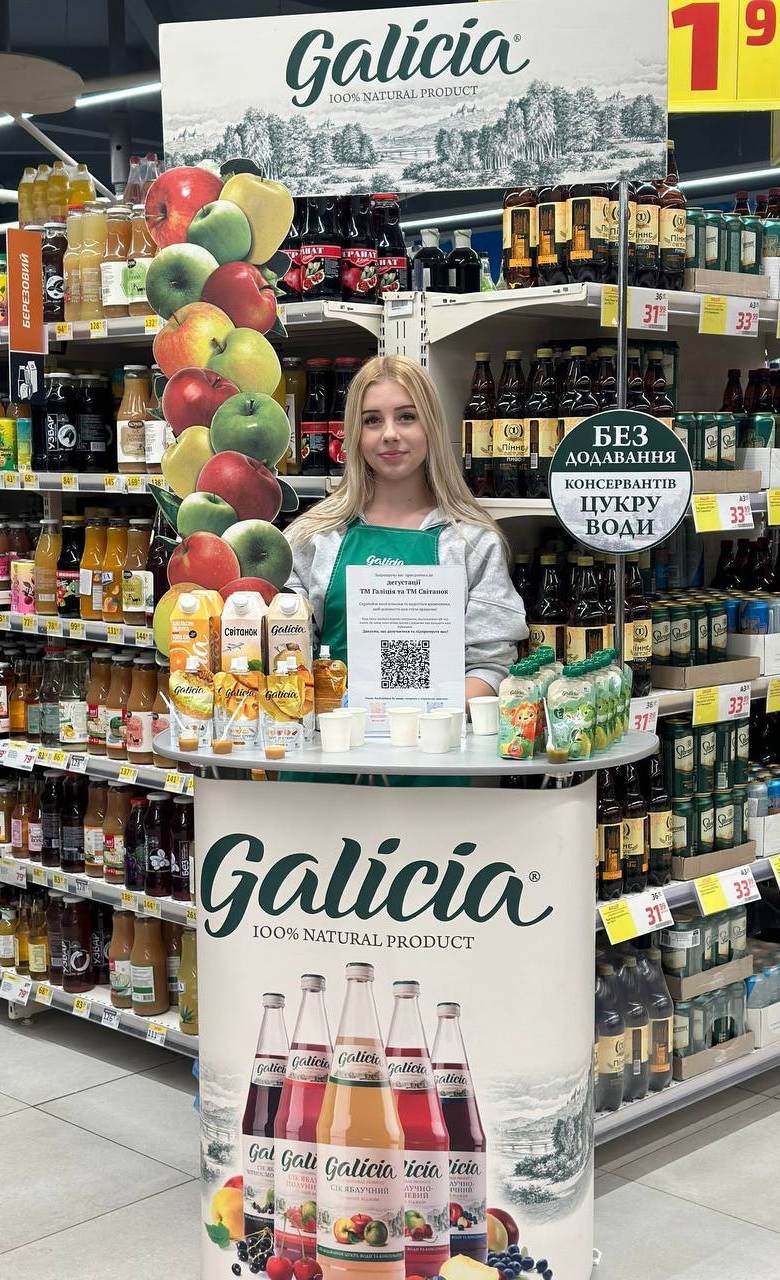
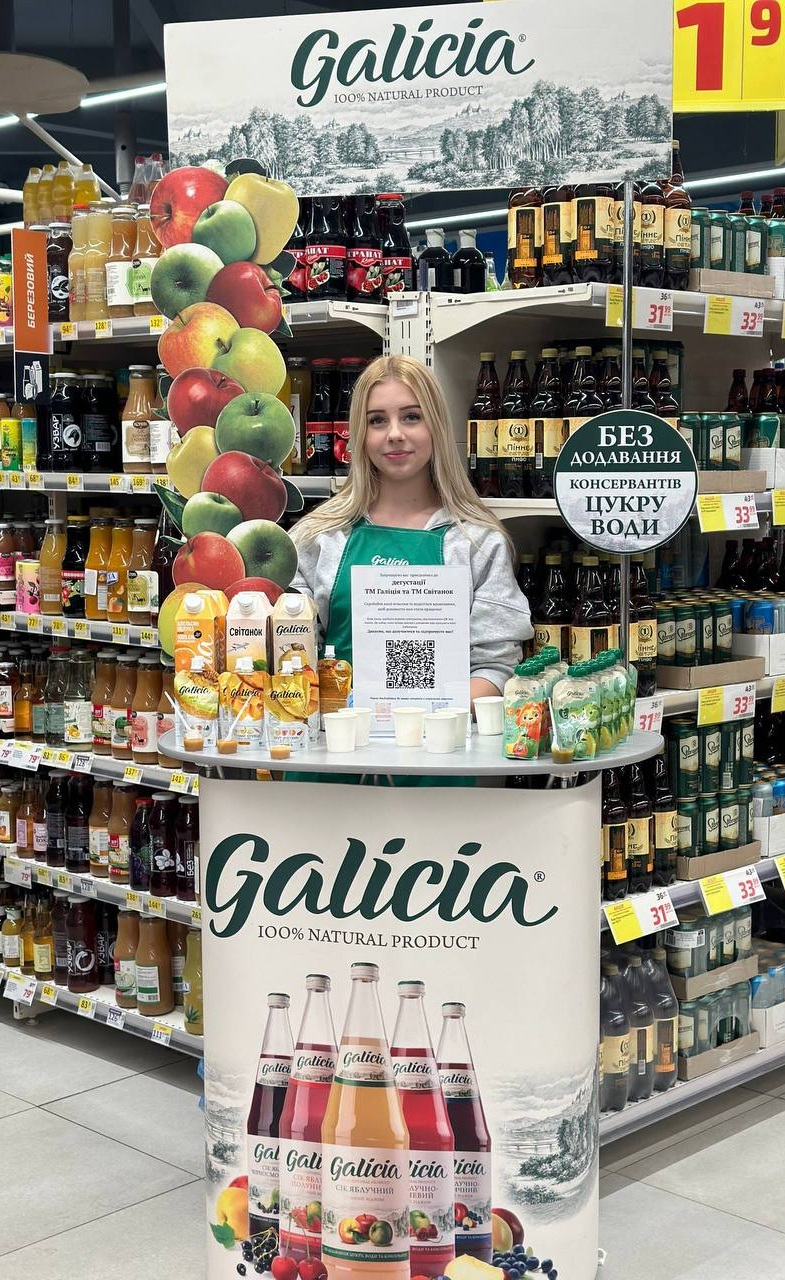
Оновлено фото дегустацій та секцію index.html

diff --git a/index.html b/index.html
@@ -243,13 +243,13 @@
           </div>
         </div>
         <div class="degustation__item">
-          <img src="img/photo_dig_3.png" alt="Дегустація продукції Highberry у супермаркеті">
+          <img src="img/photo_dig_3.jpg" alt="Дегустація продукції Highberry у супермаркеті">
           <div class="degustation__overlay">
             <span class="degustation__tag">Highberry</span>
           </div>
         </div>
         <div class="degustation__item degustation__item--wide">
-          <img src="img/photo_dig_2.png" alt="Промо-консультант Galicia у торговому залі">
+          <img src="img/photo_dig_2.jpg" alt="Промо-консультант Galicia у торговому залі">
           <div class="degustation__overlay">
             <span class="degustation__tag">Промо</span>
           </div>
